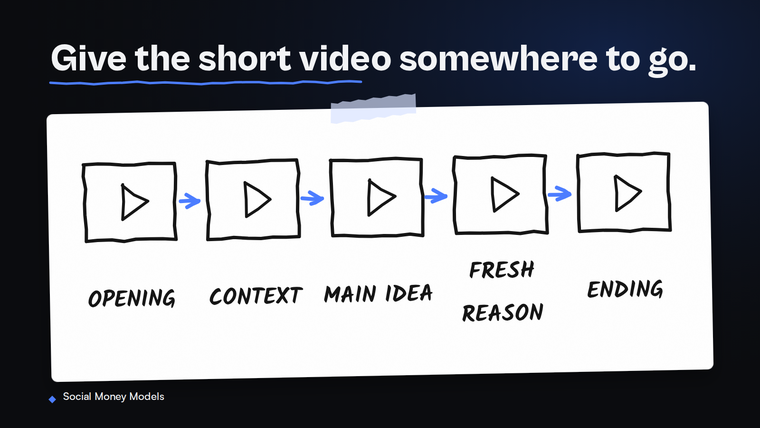
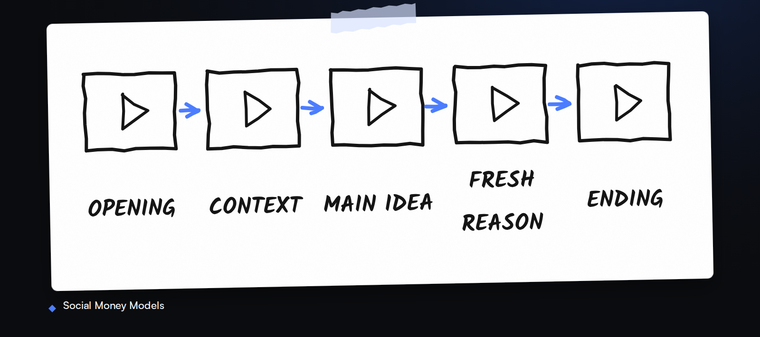
Use title-free guide illustrations and remove pricing markers

diff --git a/predictable-clients/index.html b/predictable-clients/index.html
@@ -46,7 +46,7 @@
 <img class="guide-illustration" src="/assets/guide-illustrations/05-clients-atm-760.png"
   srcset="/assets/guide-illustrations/05-clients-atm-760.png 760w, /assets/guide-illustrations/05-clients-atm.png 1600w"
   sizes="(max-width: 400px) calc(100vw - 40px), (max-width: 756px) 90vw, 680px"
-  width="1600" height="900" loading="lazy" decoding="async"
+  width="1600" height="710" loading="lazy" decoding="async"
   alt="An audience contains a blue capped buyer, who then considers useful work and a service offer across the trust and monetization stages.">
 <div data-copy="8">
 <p>An ATM is audience, trust and monetization. Social Money Models is how I teach you to build yours.</p>
@@ -67,7 +67,7 @@
 <img class="guide-illustration" src="/assets/guide-illustrations/07-ads-target-760.png"
   srcset="/assets/guide-illustrations/07-ads-target-760.png 760w, /assets/guide-illustrations/07-ads-target.png 1600w"
   sizes="(max-width: 400px) calc(100vw - 40px), (max-width: 756px) 90vw, 680px"
-  width="1600" height="900" loading="lazy" decoding="async"
+  width="1600" height="710" loading="lazy" decoding="async"
   alt="Two cost records, target and actual, are compared for a blue capped client rather than for clicks.">
 <div data-copy="12">
 <p>Before you spend on ads, work out what you can afford to pay for a client. Look at what you keep after delivering the work and how long you can wait to earn back that spend.</p>
@@ -81,7 +81,7 @@
 <img class="guide-illustration" src="/assets/guide-illustrations/06-post-conversation-r2-760.png"
   srcset="/assets/guide-illustrations/06-post-conversation-r2-760.png 760w, /assets/guide-illustrations/06-post-conversation-r2.png 1600w"
   sizes="(max-width: 400px) calc(100vw - 40px), (max-width: 756px) 90vw, 680px"
-  width="1600" height="900" loading="lazy" decoding="async"
+  width="1600" height="710" loading="lazy" decoding="async"
   alt="A group post leads to a buyer’s reply, then a question and a conversation between the same blue capped buyer and the seller.">
 <div data-copy="14" class="criteria">
 <h3>Give the right person a reason to reply.</h3>
@@ -137,7 +137,6 @@
 </div>
 <a data-copy="23" class="btn btn--accent" data-skool href="https://www.skool.com/social-money-models-7594">Start your 7-day free trial</a>
 <p data-copy="24" class="micro" data-guide-terms>7 days free, then $7/month at launch. Cancel anytime.</p>
-<span class="pending" data-guide-price-pending>Price pending</span>
 </div>
 </section>
 </div>

diff --git a/content-that-gets-watched/index.html b/content-that-gets-watched/index.html
@@ -39,7 +39,7 @@
 <img class="guide-illustration" src="/assets/guide-illustrations/01-video-criteria-760.png"
   srcset="/assets/guide-illustrations/01-video-criteria-760.png 760w, /assets/guide-illustrations/01-video-criteria.png 1600w"
   sizes="(max-width: 400px) calc(100vw - 40px), (max-width: 756px) 90vw, 680px"
-  width="1600" height="900" loading="lazy" decoding="async"
+  width="1600" height="710" loading="lazy" decoding="async"
   alt="Five connected video frames show opening, context, main idea, a fresh reason to stay and ending.">
 <div class="criteria">
 <h3 data-copy="7">Make the premise clear from the opening.</h3>
@@ -85,7 +85,7 @@
 <img class="guide-illustration" src="/assets/guide-illustrations/02-content-atm-760.png"
   srcset="/assets/guide-illustrations/02-content-atm-760.png 760w, /assets/guide-illustrations/02-content-atm.png 1600w"
   sizes="(max-width: 400px) calc(100vw - 40px), (max-width: 756px) 90vw, 680px"
-  width="1600" height="900" loading="lazy" decoding="async"
+  width="1600" height="710" loading="lazy" decoding="async"
   alt="A blue capped buyer appears among an audience, beside useful material that builds trust, and beside an offer in the monetization stage.">
 <p data-copy="38">An ATM is audience, trust and monetization. Social Money Models is how I teach you to build yours.</p>
 <p data-copy="39">Content gives people a way to find you and get to know how you think. Trust grows through what you share and how useful it is to them. Monetization connects that attention with something you sell.</p>
@@ -100,7 +100,6 @@
 <p data-copy="45">From there, the client Quick Start focuses on selling your offer. The separate, fuller content course opens to paying members as I add the lessons.</p>
 <a data-copy="46" class="btn btn--accent" data-skool href="https://www.skool.com/social-money-models-7594">Start your 7-day free trial</a>
 <p data-copy="47" class="micro" data-guide-terms>7 days free, then $7/month at launch. Cancel anytime.</p>
-<span class="pending" data-guide-price-pending>Price pending</span>
 </div>
 <div class="ask">
 <h3 data-copy="48">Explore working together</h3>

diff --git a/attention-to-income/index.html b/attention-to-income/index.html
@@ -43,7 +43,7 @@
 <img class="guide-illustration" src="/assets/guide-illustrations/04-income-atm-760.png"
   srcset="/assets/guide-illustrations/04-income-atm-760.png 760w, /assets/guide-illustrations/04-income-atm.png 1600w"
   sizes="(max-width: 400px) calc(100vw - 40px), (max-width: 756px) 90vw, 680px"
-  width="1600" height="900" loading="lazy" decoding="async"
+  width="1600" height="710" loading="lazy" decoding="async"
   alt="The same blue capped buyer moves from audience attention to trust in useful material and an offer they can buy.">
 <div data-copy="7">
 <p>An ATM is audience, trust and monetization. Social Money Models is how I teach you to build yours.</p>
@@ -56,7 +56,7 @@
 <img class="guide-illustration" src="/assets/guide-illustrations/03-audience-offer-760.png"
   srcset="/assets/guide-illustrations/03-audience-offer-760.png 760w, /assets/guide-illustrations/03-audience-offer.png 1600w"
   sizes="(max-width: 400px) calc(100vw - 40px), (max-width: 756px) 90vw, 680px"
-  width="1600" height="900" loading="lazy" decoding="async"
+  width="1600" height="710" loading="lazy" decoding="async"
   alt="A buyer’s need and the seller’s skill point into one focused offer.">
 <div data-copy="9" class="criteria">
 <h3>Start with a need people already want help with.</h3>
@@ -119,7 +119,6 @@
 </div>
 <a data-copy="23" class="btn btn--accent" data-skool href="https://www.skool.com/social-money-models-7594">Start your 7-day free trial</a>
 <p data-copy="24" class="micro" data-guide-terms>7 days free, then $7/month at launch. Cancel anytime.</p>
-<span class="pending" data-guide-price-pending>Price pending</span>
 </div>
 <div class="ask">
 <div data-copy="25">

diff --git a/assets/approved-guides.js b/assets/approved-guides.js
@@ -1,9 +1,8 @@
-// Shared release inputs for all three guides. Empty values keep the visible holds.
+// Shared call destination for all three guides.
 (function () {
   'use strict';
   var release = {
-    callUrl: 'https://calendly.com/socialmoneymodels/free-discovery-call-atm-audit',
-    trialTerms: ''
+    callUrl: 'https://calendly.com/socialmoneymodels/free-discovery-call-atm-audit'
   };
 
   if (release.callUrl) {
@@ -25,12 +24,4 @@
     }
   }
 
-  if (release.trialTerms) {
-    document.querySelectorAll('[data-guide-terms]').forEach(function (terms) {
-      terms.textContent = release.trialTerms;
-    });
-    document.querySelectorAll('[data-guide-price-pending]').forEach(function (marker) {
-      marker.hidden = true;
-    });
-  }
 })();

diff --git a/assets/approved-guides.css b/assets/approved-guides.css
@@ -9,4 +9,4 @@ html {scroll-behavior:auto} body {overflow-x:visible} .guide-masthead {backgroun
 
 
 /* Reserve the full drawing before it loads; contain preserves every edge. */
-.guide-illustration {display:block;width:100%;height:auto;aspect-ratio:16/9;object-fit:contain;margin:24px 0 28px}
+.guide-illustration {display:block;width:100%;height:auto;aspect-ratio:160/71;object-fit:contain;margin:24px 0 28px}
